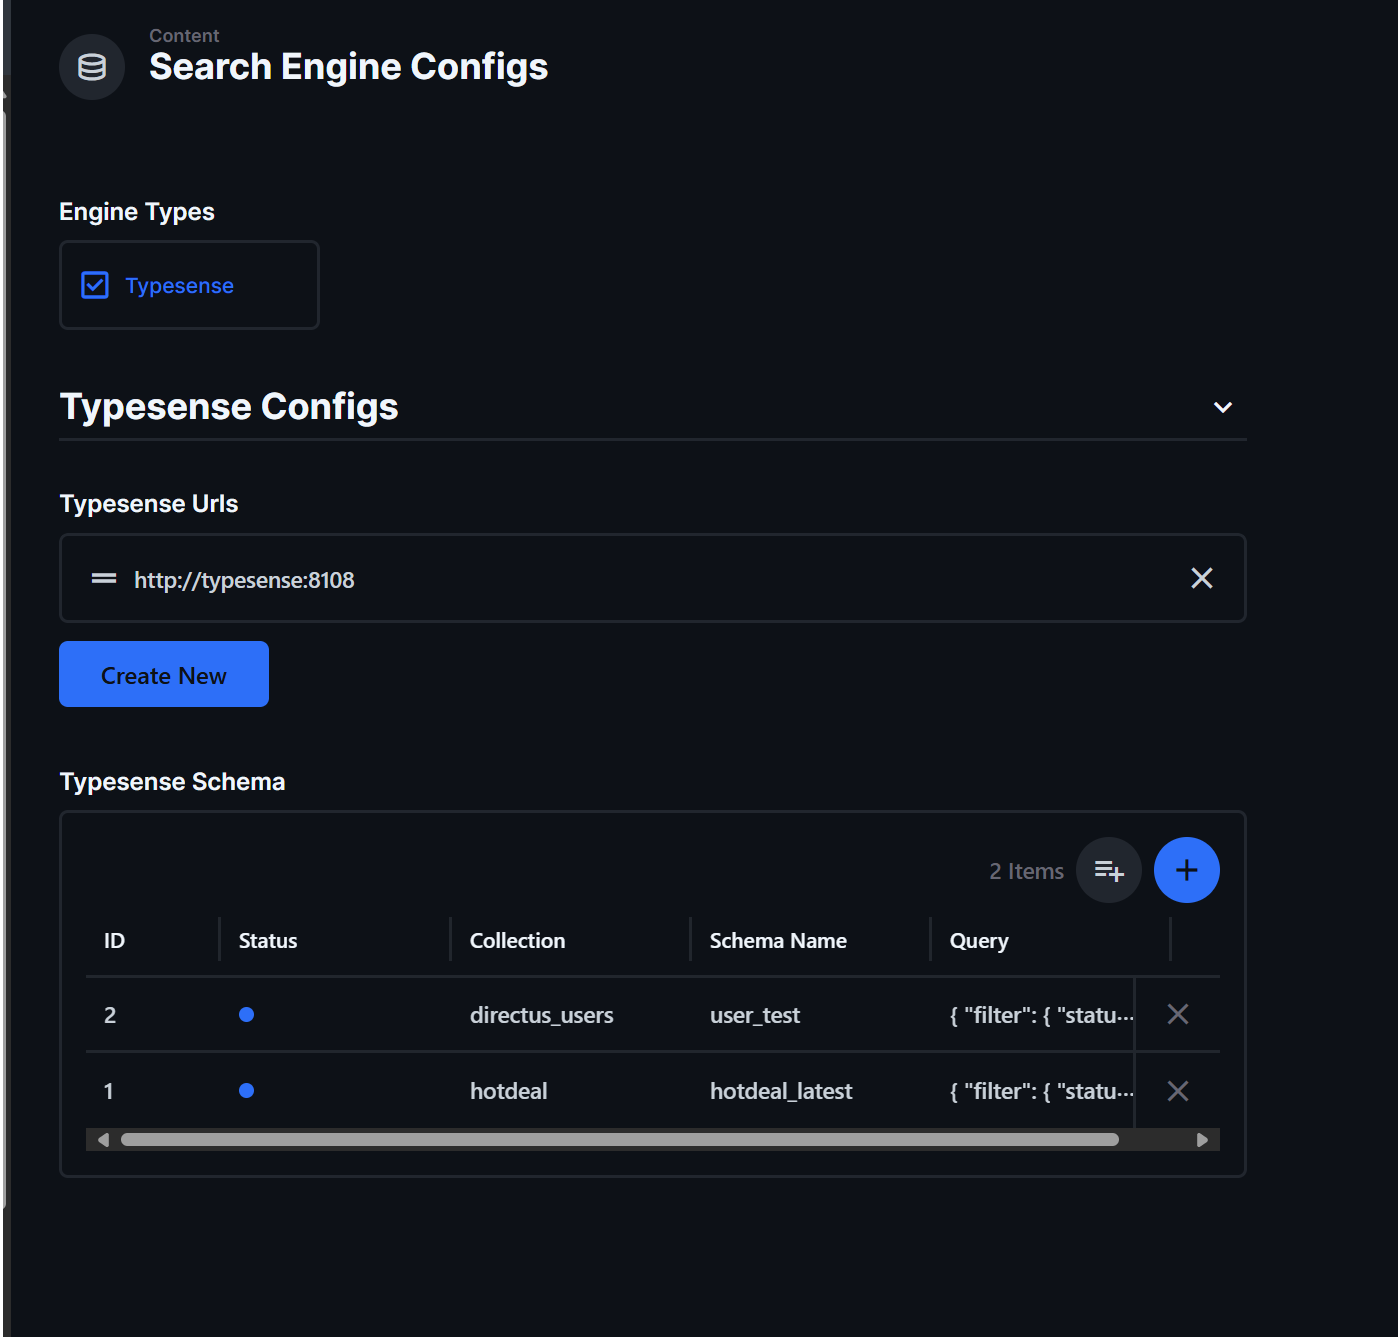
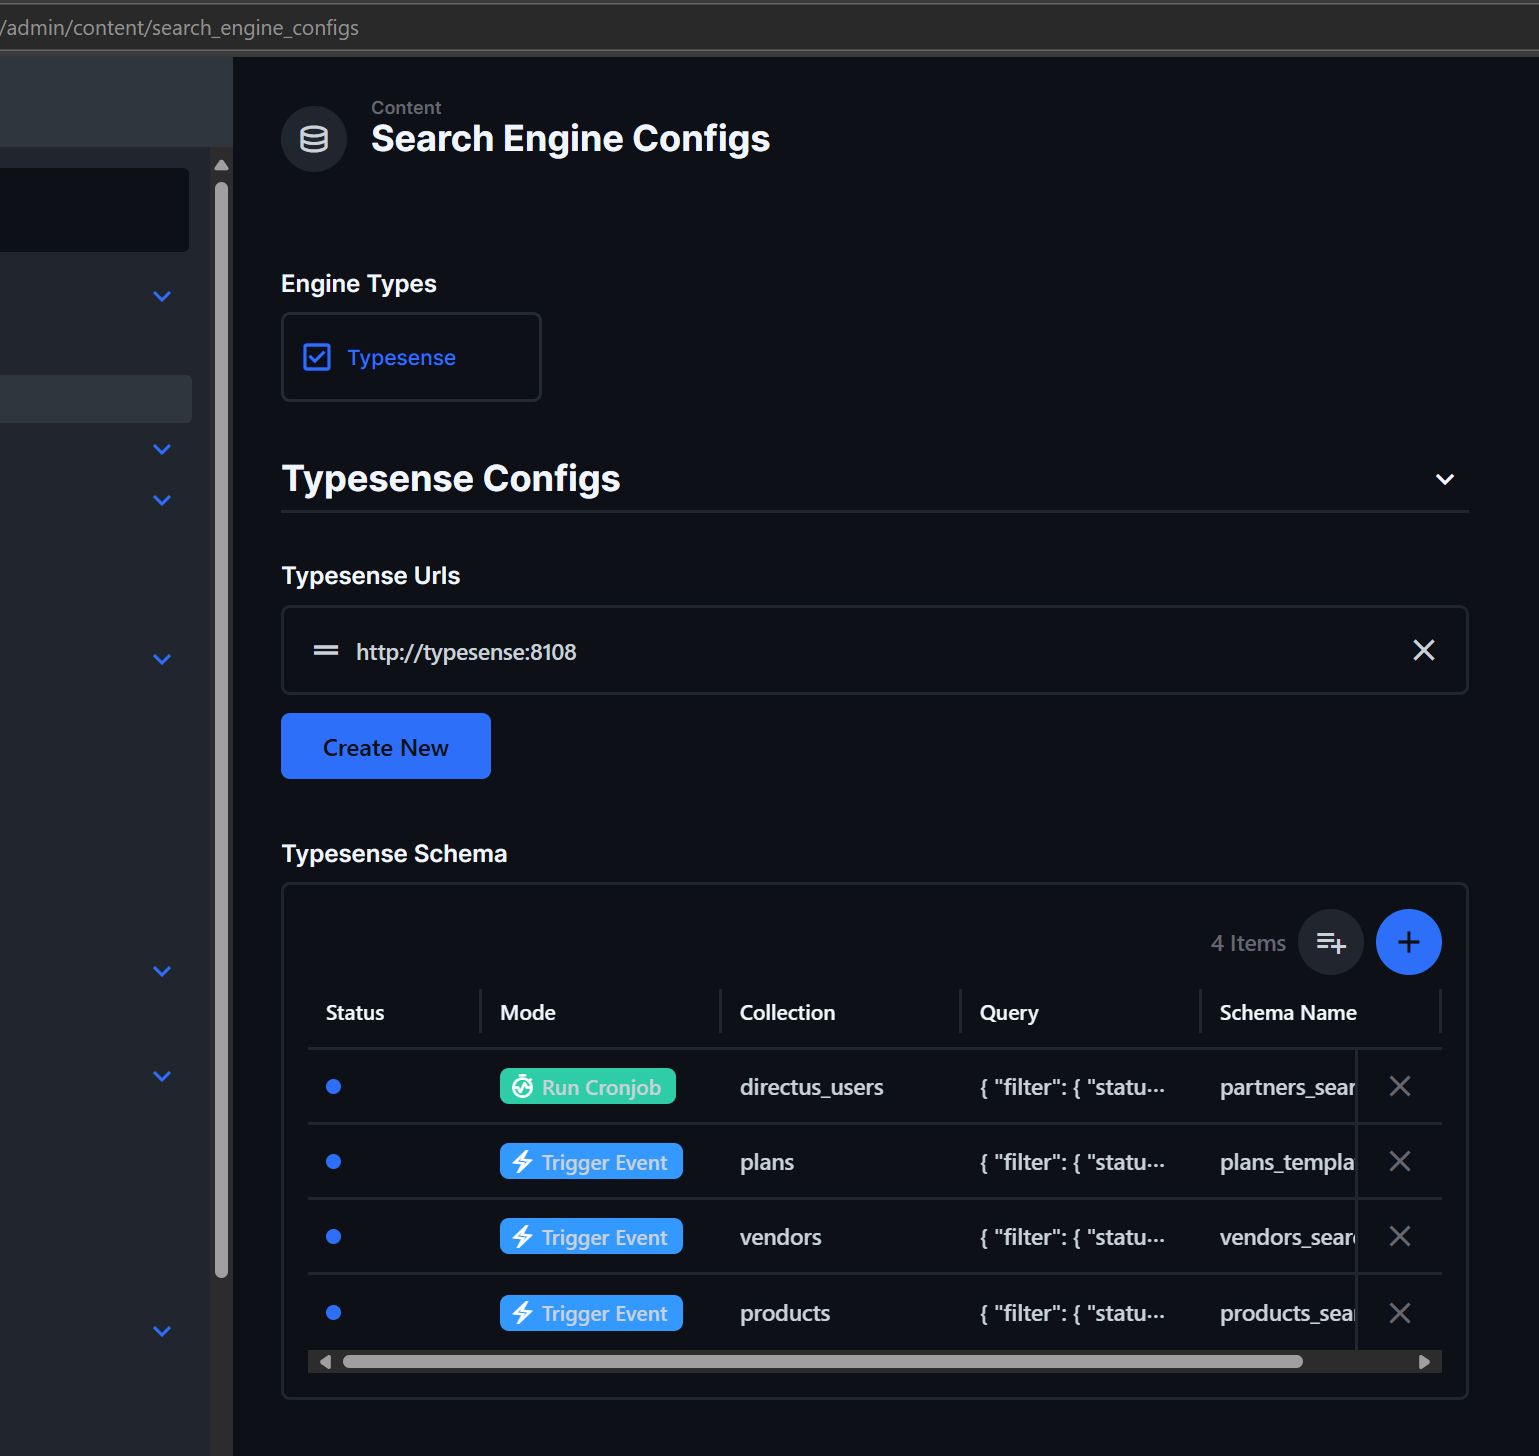
enhance: mode run

diff --git a/dist/api.js b/dist/api.js
@@ -44811,10 +44811,10 @@ class TypesenseClass extends BaseService {
     });
     this.dataIndex = this.env.TYPESENSE_INDEXING;
   }
-  async getSchemaIndex() {
+  async getSchemaIndex(mode) {
     let schema = await this.getSchema();
     let service = new this.services.ItemsService(COLLECTION_TYPESENSE_SCHEMA, { schema });
-    return service.readByQuery({
+    let query = {
       filter: {
         status: {
           _eq: "published"
@@ -44823,13 +44823,19 @@ class TypesenseClass extends BaseService {
       fields: ["*"],
       sort: ["sort", "id"],
       limit: -1
-    });
+    };
+    if (mode) {
+      query.filter["mode"] = {
+        _eq: mode
+      };
+    }
+    return service.readByQuery(query);
   }
   async initCollectionSchema(payload) {
     try {
       let [collections, dataIndex] = await Promise.all([
         this.client.collections().retrieve(),
-        this.getSchemaIndex()
+        this.getSchemaIndex(payload.mode)
       ]);
       if (payload.schemas) {
         dataIndex = dataIndex.filter((item) => payload.schemas.includes(item.schema_name));
@@ -44856,15 +44862,15 @@ class TypesenseClass extends BaseService {
       this.log.debug(error);
     }
   }
-  async actionRefreshIndexData() {
+  async actionRefreshIndexData(mode) {
     try {
-      let dataIndex = await this.getSchemaIndex();
+      let dataIndex = await this.getSchemaIndex(mode);
       let schemas = dataIndex.map((item) => item.schema_name);
       if (!(schemas == null ? void 0 : schemas.length))
         return;
       let collections = Array.from(new Set(dataIndex.map((item) => item.collection)));
       await this.actionDropCollections(schemas);
-      await this.actionIndexDataCollection(collections);
+      await this.actionIndexDataCollection(collections, mode);
     } catch (error) {
       this.log.debug("[-] Error actionIndexAllData");
       this.log.debug(error);
@@ -44883,13 +44889,13 @@ class TypesenseClass extends BaseService {
       this.log.debug(error);
     }
   }
-  async actionIndexDataCollection(collections) {
+  async actionIndexDataCollection(collections, mode) {
     try {
-      let dataIndex = await this.getSchemaIndex();
+      let dataIndex = await this.getSchemaIndex(mode);
       if (collections) {
         dataIndex = dataIndex.filter((item) => collections == null ? void 0 : collections.includes(item.collection));
       }
-      await this.initCollectionSchema({ collections });
+      await this.initCollectionSchema({ collections, mode });
       return this.actionIndexing(dataIndex);
     } catch (error) {
       this.log.error("[!] Error actionIndexData");
@@ -45005,11 +45011,11 @@ class EmitterEventClass extends BaseService {
     });
     this.emitter.onAction("TYPESENSE_INDEX_DATA_COLLECTION", async (payload) => {
       let typesenseClass = new TypesenseClass(context);
-      return typesenseClass.actionIndexDataCollection(payload.collections);
+      return typesenseClass.actionIndexDataCollection(payload.collections, payload.mode);
     });
     this.emitter.onFilter("TYPESENSE_INDEX_DATA_COLLECTION", async (payload) => {
       let typesenseClass = new TypesenseClass(context);
-      return typesenseClass.actionIndexDataCollection(payload.collections);
+      return typesenseClass.actionIndexDataCollection(payload.collections, payload.mode);
     });
     this.emitter.onAction("TYPESENSE_CLEAR_SCHEMA", async (payload) => {
       let typesenseClass = new TypesenseClass(context);
@@ -45055,7 +45061,7 @@ class ScheduleEventClass extends BaseService {
     if (!schema.length)
       return;
     let collections = Array.from(new Set(schema.map((item) => item.collection)));
-    return this.emitter.emitFilter("TYPESENSE_INDEX_DATA_COLLECTION", { collections }).then(() => {
+    return this.emitter.emitFilter("TYPESENSE_INDEX_DATA_COLLECTION", { collections, mode: "run_cronjob" }).then(() => {
       this.env["TYPESENSE_CRONJOB_STATUS"] = "pending";
     }).catch((e) => {
       this.logger.error({ name: EXTENSION_NAME }, e == null ? void 0 : e.message);
@@ -45106,7 +45112,7 @@ class ActionEventClass extends BaseService {
     if (!schema.length)
       return;
     let collections = Array.from(new Set(schema.map((item) => item.collection)));
-    return this.emitter.emitAction("TYPESENSE_INDEX_DATA_COLLECTION", { collections });
+    return this.emitter.emitAction("TYPESENSE_INDEX_DATA_COLLECTION", { collections, mode: "trigger_event" });
   }
 }
 
@@ -45631,13 +45637,7 @@ const collections = [
           "interface": "list-o2m",
           "options": {
             "layout": "table",
-            "fields": [
-              "id",
-              "status",
-              "collection",
-              "schema_name",
-              "query"
-            ]
+            "fields": ["status", "mode", "collection", "query", "schema_name"]
           },
           "display": "related-values",
           "display_options": {
@@ -46432,8 +46432,25 @@ const collections = [
               }
             ]
           },
-          "display": null,
-          "display_options": null,
+          display: "labels",
+          display_options: {
+            "choices": [
+              {
+                "text": "Trigger Event",
+                "value": "trigger_event",
+                "color": "#FFFFFF",
+                "background": "#3399FF",
+                "icon": "electric_bolt"
+              },
+              {
+                "text": "Run Cronjob",
+                "value": "run_cronjob",
+                "color": "#FFFFFF",
+                "background": "#2ECDA7",
+                "icon": "avg_time"
+              }
+            ]
+          },
           "readonly": false,
           "hidden": false,
           "sort": 9,

diff --git a/src/services/typesense.service.ts b/src/services/typesense.service.ts
@@ -36,11 +36,11 @@ export class TypesenseClass extends BaseService {
 
     }
 
-    async getSchemaIndex() {
+    async getSchemaIndex(mode?: "trigger_event" | "run_cronjob") {
         let schema = await this.getSchema()
         let service = new this.services.ItemsService(COLLECTION_TYPESENSE_SCHEMA, { schema })
 
-        return service.readByQuery({
+        let query: any = {
             filter: {
                 status: {
                     _eq: "published"
@@ -49,16 +49,24 @@ export class TypesenseClass extends BaseService {
             fields: ['*'],
             sort: ["sort", "id"],
             limit: -1
-        })
+        }
+
+        if (mode) {
+            query.filter["mode"] = {
+                _eq: mode
+            }
+        }
+
+        return service.readByQuery(query)
     }
 
 
-    async initCollectionSchema(payload: { schemas?: string[], collections?: string[] } | any) {
+    async initCollectionSchema(payload: { schemas?: string[], collections?: string[], mode?: "trigger_event" | "run_cronjob" } | any) {
         try {
 
             let [collections, dataIndex] = await Promise.all([
                 this.client.collections().retrieve(),
-                this.getSchemaIndex()
+                this.getSchemaIndex(payload.mode)
             ])
 
             if (payload.schemas) {
@@ -96,10 +104,10 @@ export class TypesenseClass extends BaseService {
     }
 
 
-    async actionRefreshIndexData() {
+    async actionRefreshIndexData(mode?: "trigger_event" | "run_cronjob") {
         try {
 
-            let dataIndex = await this.getSchemaIndex()
+            let dataIndex = await this.getSchemaIndex(mode)
 
             let schemas = dataIndex.map((item: any) => item.schema_name)
 
@@ -109,7 +117,7 @@ export class TypesenseClass extends BaseService {
             let collections: any = Array.from(new Set(dataIndex.map((item: any) => item.collection)))
 
             await this.actionDropCollections(schemas)
-            await this.actionIndexDataCollection(collections)
+            await this.actionIndexDataCollection(collections, mode)
 
 
         } catch (error) {
@@ -136,15 +144,15 @@ export class TypesenseClass extends BaseService {
         }
     }
 
-    async actionIndexDataCollection(collections?: string[]) {
+    async actionIndexDataCollection(collections?: string[], mode?: "trigger_event" | "run_cronjob") {
         try {
-            let dataIndex = await this.getSchemaIndex()
+            let dataIndex = await this.getSchemaIndex(mode)
 
             if (collections) {
                 dataIndex = dataIndex.filter((item: any) => collections?.includes(item.collection))
             }
 
-            await this.initCollectionSchema({ collections })
+            await this.initCollectionSchema({ collections, mode })
 
             // console.log({
             //     collections,

diff --git a/src/extensions/initial/utils/collections.data.ts b/src/extensions/initial/utils/collections.data.ts
@@ -367,13 +367,7 @@ export const collections = [
                     "interface": "list-o2m",
                     "options": {
                         "layout": "table",
-                        "fields": [
-                            "id",
-                            "status",
-                            "collection",
-                            "schema_name",
-                            "query"
-                        ]
+                        "fields": ["status", "mode", "collection", "query", "schema_name"]
                     },
                     "display": "related-values",
                     "display_options": {
@@ -1180,8 +1174,25 @@ export const collections = [
                             }
                         ]
                     },
-                    "display": null,
-                    "display_options": null,
+                    display: "labels",
+                    display_options: {
+                        "choices": [
+                            {
+                                "text": "Trigger Event",
+                                "value": "trigger_event",
+                                "color": "#FFFFFF",
+                                "background": "#3399FF",
+                                "icon": "electric_bolt"
+                            },
+                            {
+                                "text": "Run Cronjob",
+                                "value": "run_cronjob",
+                                "color": "#FFFFFF",
+                                "background": "#2ECDA7",
+                                "icon": "avg_time"
+                            }
+                        ]
+                    },
                     "readonly": false,
                     "hidden": false,
                     "sort": 9,

diff --git a/src/events/emitter.event.ts b/src/events/emitter.event.ts
@@ -16,14 +16,14 @@ export class EmitterEventClass extends BaseService {
             return typesenseClass.actionIndexDataSchema(payload.schema)
         })
 
-        this.emitter.onAction("TYPESENSE_INDEX_DATA_COLLECTION", async (payload: { collections: Array<string> }) => {
+        this.emitter.onAction("TYPESENSE_INDEX_DATA_COLLECTION", async (payload: { collections: Array<string>, mode?: "trigger_event" | "run_cronjob" }) => {
             let typesenseClass = new TypesenseClass(context)
-            return typesenseClass.actionIndexDataCollection(payload.collections)
+            return typesenseClass.actionIndexDataCollection(payload.collections, payload.mode)
         })
 
-        this.emitter.onFilter("TYPESENSE_INDEX_DATA_COLLECTION", async (payload: { collections: Array<string> }) => {
+        this.emitter.onFilter("TYPESENSE_INDEX_DATA_COLLECTION", async (payload: { collections: Array<string>, mode?: "trigger_event" | "run_cronjob" }) => {
             let typesenseClass = new TypesenseClass(context)
-            return typesenseClass.actionIndexDataCollection(payload.collections)
+            return typesenseClass.actionIndexDataCollection(payload.collections, payload.mode)
         })
 
         this.emitter.onAction("TYPESENSE_CLEAR_SCHEMA", async (payload: { schema: Array<string> }) => {

diff --git a/src/events/schedule.event.ts b/src/events/schedule.event.ts
@@ -42,7 +42,7 @@ export class ScheduleEventClass extends BaseService {
 
         let collections = Array.from(new Set(schema.map((item: any) => item.collection)))
 
-        return this.emitter.emitFilter('TYPESENSE_INDEX_DATA_COLLECTION', { collections }).then(() => {
+        return this.emitter.emitFilter('TYPESENSE_INDEX_DATA_COLLECTION', { collections, mode: "run_cronjob" }).then(() => {
 
             this.env['TYPESENSE_CRONJOB_STATUS'] = 'pending'
 

diff --git a/src/events/action.event.ts b/src/events/action.event.ts
@@ -72,7 +72,7 @@ export class ActionEventClass extends BaseService {
 
         let collections = Array.from(new Set(schema.map((item: any) => item.collection)))
 
-        return this.emitter.emitAction('TYPESENSE_INDEX_DATA_COLLECTION', { collections })
+        return this.emitter.emitAction('TYPESENSE_INDEX_DATA_COLLECTION', { collections, mode: "trigger_event" })
     }
 
 }

diff --git a/README.md b/README.md
@@ -14,6 +14,7 @@ typesense:
 
 ``` bash
 TYPESENSE_API_KEY="112233"
+TYPESENSE_CRONJOB_TIME="*/15 * * * *"   #env default directus service
 ```
 
 ## II. Configs
@@ -38,9 +39,12 @@ This field specifies the URLs of the `typesense` service. These services must al
 ### 4. Field `Typesense Indexing`
 The processing flow here will be: get data in the query configured in `query` and `collection`, then process the data with Javascript in `Function Parse` so that the output matches the schema configured in `Schema`
 #### 4.1. Query data
-<img src="docs/query.png" width="500" height="500" />
+<img src="docs/query.png" width="500" height="700" />
 
 In this step, we will get data with `directus` `sdk` query (collection & query). The returned response will be the input (`data`) of the `Function Parse` field to run the script.
+
++ Mode ```Trigger Event``` : trigger hook action with the schema configured
++ Mode ```Run Cronjob``` : schemas of this type will automatically index with the time configured with env ```TYPESENSE_CRONJOB_TIME```
 
 > **See more:** https://docs.directus.io/reference/items.html
 
